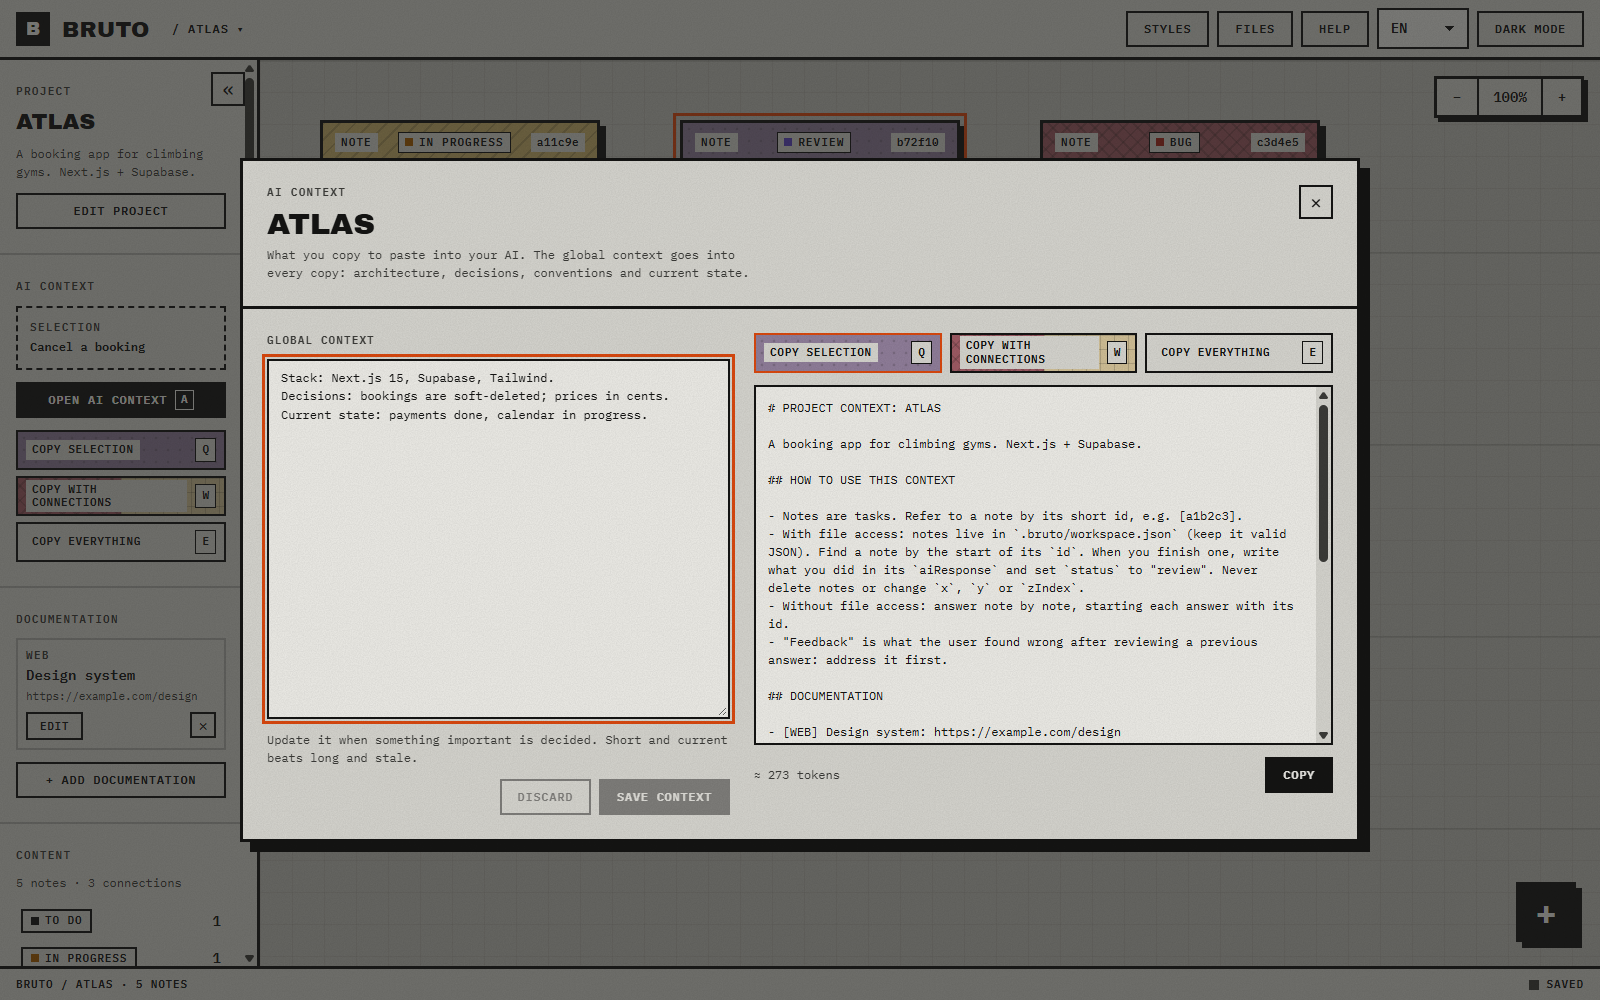
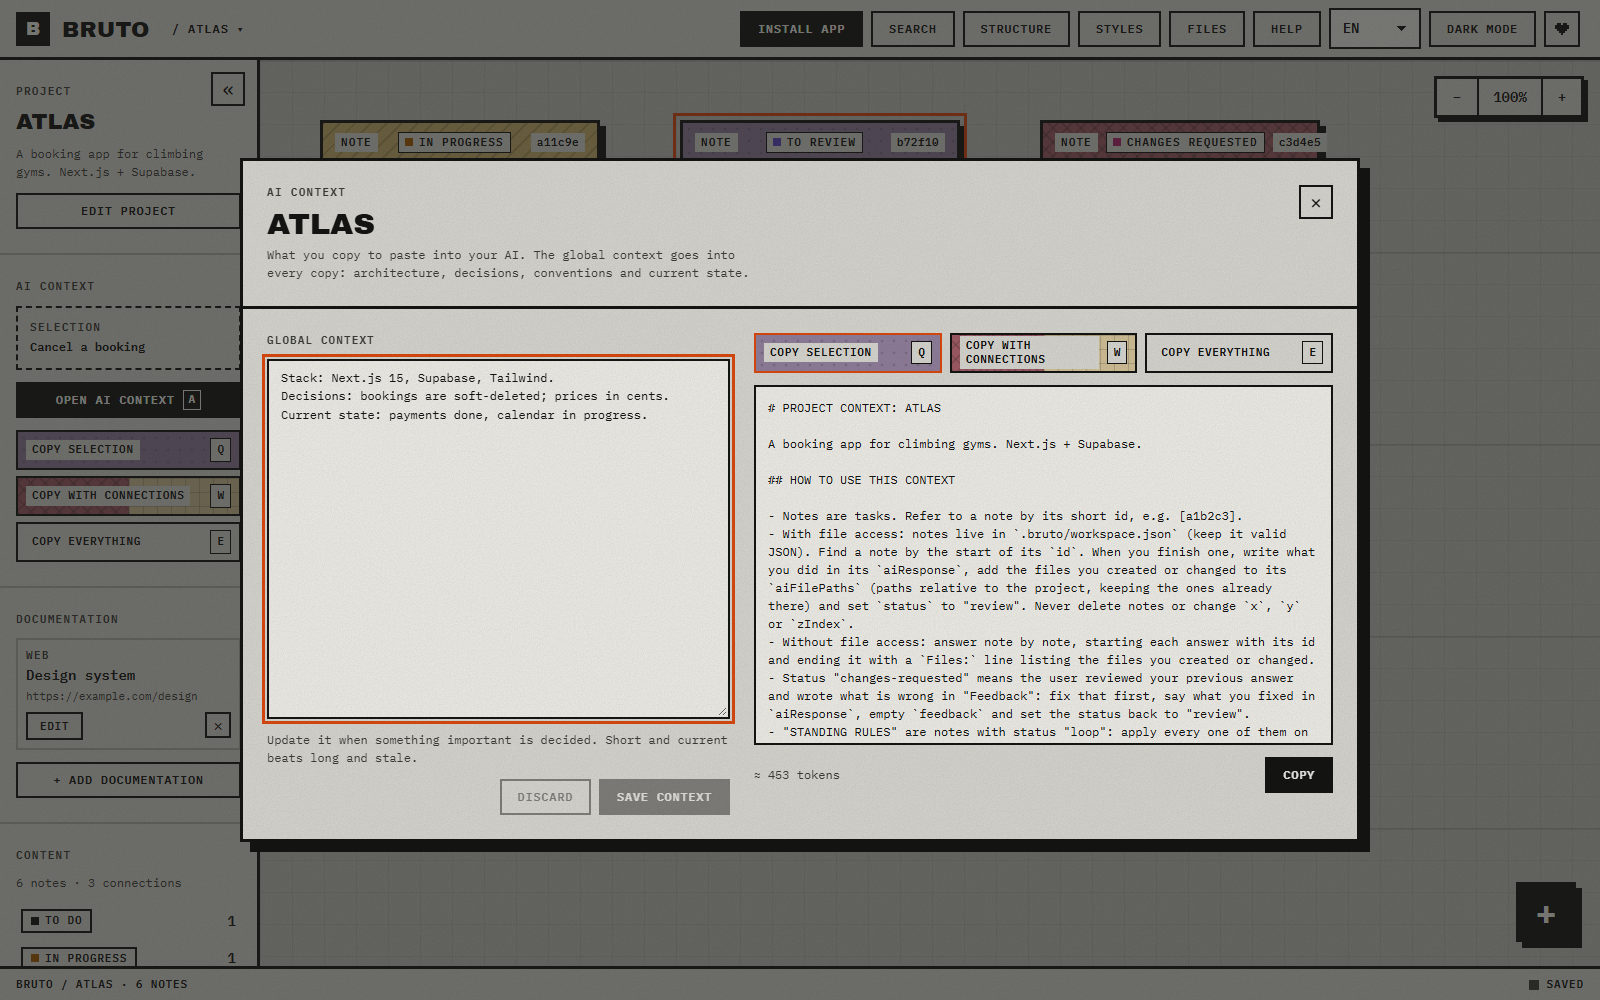
Refresh the README screenshots and bring the README up to date
New shots of the board, the structure view, the web lens, the AI context and search, taken from a demo project. The README now lists the new folders, the reset and close shortcuts, the files the AI touched and the update notice.

diff --git a/README.md b/README.md
@@ -55,20 +55,25 @@ Prefer to run it yourself? See [Development](#development).
 - **AI context.** Copy the selection, the selection plus everything it points to, or the whole
   project, as clean Markdown with short instructions for the model. A preview shows exactly what gets
   copied and roughly how many tokens it is.
-- **Answers in the note.** Each note has an _AI response_ and a _What's wrong_ field, so review
-  loops stay attached to the task.
+- **Answers in the note.** Each note has an _AI response_, the files the AI touched and a _What's
+  wrong_ field, so review loops stay attached to the task.
 - **Safe with other tools.** Every save reads the file first and merges changes made elsewhere, note by
   note and field by field. A broken file is never overwritten: Bruto shows what is wrong and offers the
   latest backup (one is kept each time a project is opened).
 - **Keyboard first and accessible.** Every action has a shortcut, notes are reachable with Tab, dialogs
   trap focus and everything has a readable name for screen readers.
-- **Nine languages**, light and dark themes, installable, works offline.
+- **Nine languages**, light and dark themes, a colour and pattern per status, installable, works
+  offline, and tells an open window when a new version is out.
 - **Local only.** The app is a static page: it has no server, no analytics and no storage of its own.
   Your notes never leave your folders.
 
 <p>
+  <img src="docs/structure-dark.png" alt="The structure view: the project's folders as blocks, marked with the notes that point at them" width="49%" />
+  <img src="docs/lens-web-light.png" alt="The web lens: pages drawn as browser windows with their components, and the notes on the one picked" width="49%" />
+</p>
+<p>
   <img src="docs/ai-context-light.png" alt="The AI context window with the global context and a preview of the copy" width="49%" />
-  <img src="docs/status-styles-light.png" alt="Status styles: the color and pattern each status gives a note" width="49%" />
+  <img src="docs/search-dark.png" alt="Search over the board with the content and status filters, matches standing out" width="49%" />
 </p>
 
 ## Working with an AI
@@ -157,6 +162,7 @@ Add `.bruto/` to your `.gitignore` if the notes should stay on your machine.
 | `F`                 | Centre the view                       | `Alt 1…9`           | Switch open project                            |
 | `M`                 | Structure view                        | `Backspace`         | Up one folder in the structure view            |
 | `Ctrl F` / `/`      | Search notes (text, path or id)       | `Enter`             | Next result (`Shift` for the previous one)     |
+| `0`                 | Reset zoom and position               | `Esc`               | Close or cancel                                |
 
 Press `?` in the app for the full list.
 
@@ -177,13 +183,18 @@ npm run build
 
 ```text
 src/
-  domain/     pure logic: workspace format, merge, AI context, clipboard (unit tested)
+  domain/     pure logic: workspace format, merge, AI context, search, structure (unit tested)
   storage/    the project folder: workspace file, backups, images, recent projects
   state/      in-memory workspace with undo, and the engine that keeps it in sync with disk
-  board/      the canvas: notes, connections, pan, zoom, selection
+  board/      the canvas: notes, connections, pan, zoom, selection, search
+  structure/  the structure view and its file map
+  lenses/     reading web, .NET and PL/SQL code, and drawing each kind of project
+  workspace/  the project screen: actions, shortcuts, UI state
   panels/     editors and dialogs
   layout/     top bar, sidebar, status bar, landing
+  shortcuts/  one keymap for the keyboard handler and the help window
   i18n/       one dictionary per language, checked by tests
+  ui/         shared pieces: dialogs, toasts, pickers
   styles/     design tokens and styles
 e2e/          browser tests against a real (private) file system
 ```
@@ -191,7 +202,7 @@ e2e/          browser tests against a real (private) file system
 ## Support
 
 Bruto is free and has no ads, accounts or tracking. If it saves you time, you can
-[buy me a coffee on Ko-fi](https://ko-fi.com/jimy_k4).
+[buy me a coffee on Ko-fi](https://ko-fi.com/jimy_k4): it's also the heart in the top bar.
 
 ## License
 
